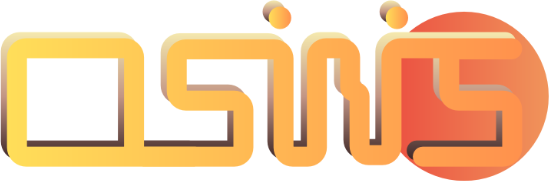
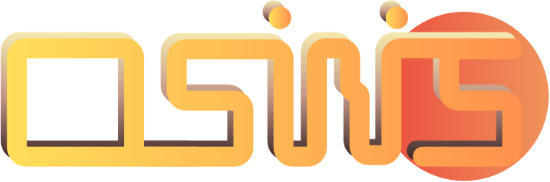
.

diff --git a/public/index.html b/public/index.html
@@ -637,7 +637,7 @@
           <div class="startup-logo startup-logo-stripe startup-logo-stripe-9"></div>
           <div class="startup-logo startup-logo-stripe startup-logo-stripe-10"></div>
         </div>
-        <img class="startup-wordmark startup-wordmark-bright" src="/arvid-wordmark-bright.png" alt="" aria-hidden="true" width="549" height="181">
+        <img class="startup-wordmark startup-wordmark-bright" src="/arvid-wordmark-bright.png" alt="" aria-hidden="true" width="550" height="182">
         <img class="startup-wordmark startup-wordmark-dark" src="/arvid-wordmark.png" alt="" aria-hidden="true" width="2220" height="752">
       </div>
       <button class="startup-skip" id="startup-skip" type="button" aria-label="Skip intro">&rarr;</button>
